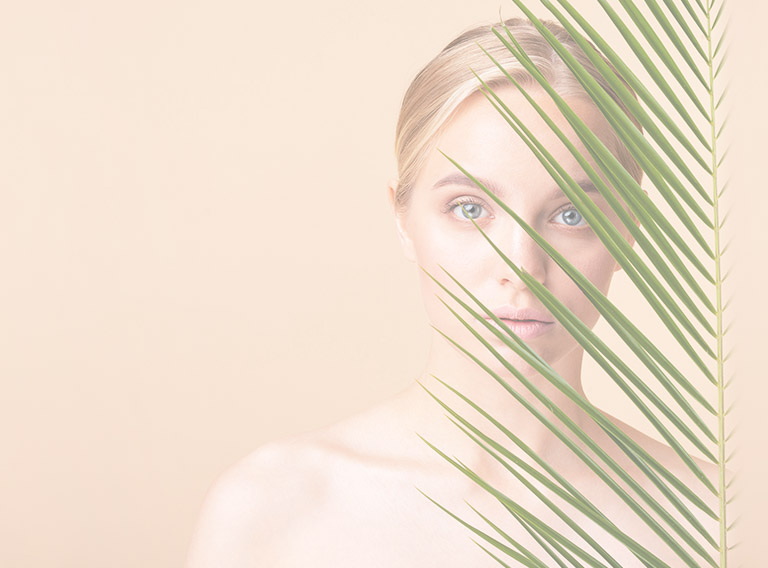
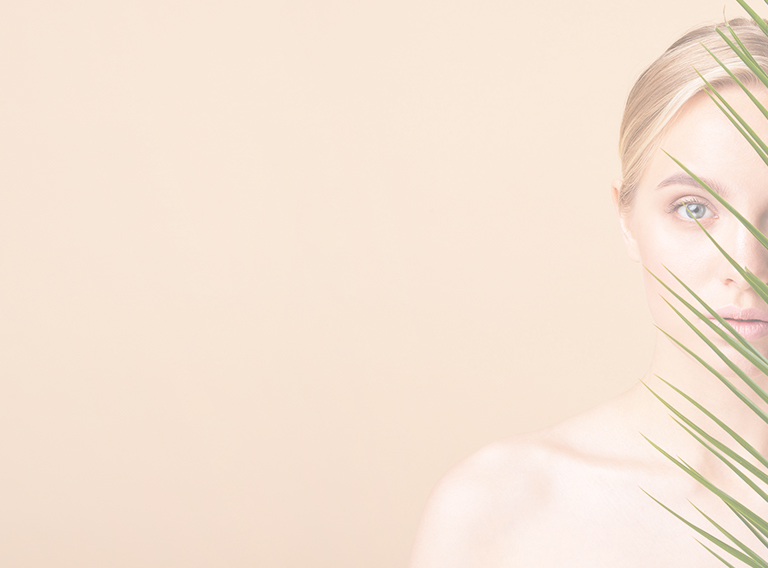
fix

Changed region(s): [[0.3438, 0.0, 1.0, 1.0], [0.25, 0.838, 0.3438, 1.0], [0.3438, 0.7782, 0.375, 0.8081]]

diff --git a/src/assets/scss/components/main-menu.scss b/src/assets/scss/components/main-menu.scss
@@ -51,7 +51,7 @@
 	&__logo{
 		margin-bottom: 63px;
 		opacity: 0;
-		transition: opacity 0.3s ease-out 0.6s;
+		// transition: opacity 0.3s ease-out 0.6s;
 
 		img{width: 150px;}
 	}
@@ -61,7 +61,7 @@
 		position: absolute;
 		top: 40px;
 		right: 0;
-		transition: opacity 0.3s ease-out 0.6s;
+		// transition: opacity 0.3s ease-out 0.6s;
 	}
 }
 
@@ -89,7 +89,8 @@ body.open-menu{
 
 		&__logo,
 		&__close{
-			opacity: 1;
+			// opacity: 1;
+			animation: menu-opacity 0.9s ease-out forwards;
 		}
 
 		&:before {
@@ -147,6 +148,12 @@ body.open-menu{
 	}
 }
 
+@keyframes menu-opacity {
+	0% {opacity: 0;}
+	50% {opacity: 0;}
+	100% {opacity: 1;}
+}
+
 @media (max-height: 750px) {
 	.main-nav{
 		&__logo{margin-bottom: 35px;}
@@ -154,6 +161,12 @@ body.open-menu{
 }
 
 @media (max-width: 767px) {
+	@keyframes menu-opacity {
+		0% {opacity: 0;}
+		30% {opacity: 0;}
+		100% {opacity: 1;}
+	}
+
 	.main-nav{
 		text-align: left;
 
@@ -168,7 +181,7 @@ body.open-menu{
 			position: relative;
 			margin-bottom: 30px;
 			opacity: 0;
-			transition: opacity 0.3s ease-out 0.6s;
+			// transition: opacity 0.3s ease-out 0.6s;
 		}
 
 		&__title::before{
@@ -214,8 +227,15 @@ body.open-menu{
 	body.open-menu{
 		.main-nav{
 			&__title,
-			.header-social{
-				opacity: 1;
+			.header-social,
+			&__logo,
+			&__close{
+				// opacity: 1;
+				animation: menu-opacity 0.6s ease-out forwards;
+			}
+
+			&:before {
+				animation: menu-animation 0.5s ease-out forwards;
 			}
 
 			.header-social{transform: translate3d(0,36px,0);}

diff --git a/src/assets/scss/layouts/header.scss b/src/assets/scss/layouts/header.scss
@@ -227,7 +227,7 @@
 		// height: 100vh; /* Use vh as a fallback for browsers that do not support Custom Properties */
 		// height: calc(var(--vh, 1vh) * 100);
 		background-image: url(/assets/img/bg-woman-mob.jpg);
-		background-position: center;
+		background-position: 100% 50%!important;
 
 		.ic-hamburger-wrap{
 			justify-content: flex-end;
@@ -255,10 +255,6 @@
 			}
 		}
 	}
-}
-
-@media (max-width: 375px) {
-	.header{background-position: 50%;}
 }
 
 @media (max-height: 800px) {
